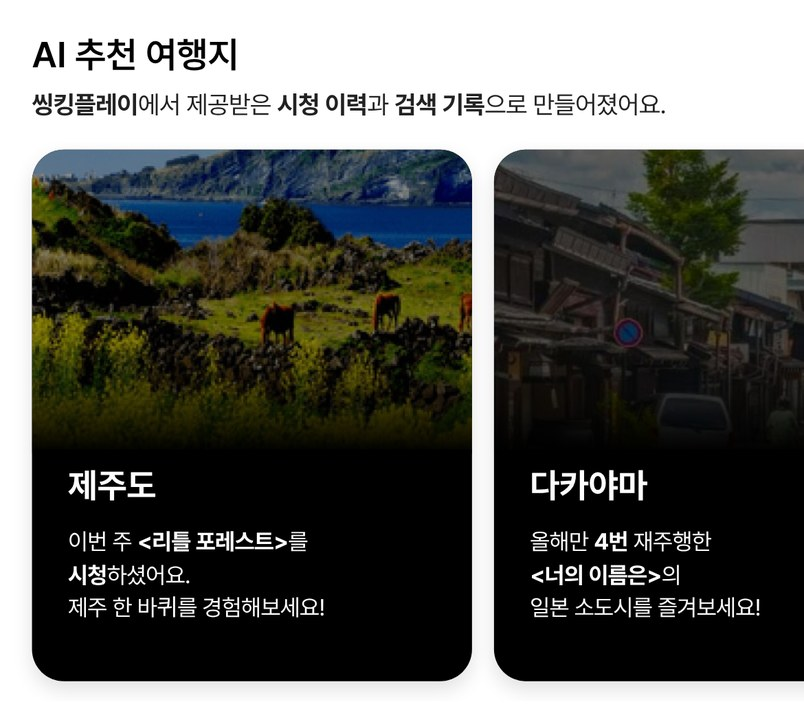
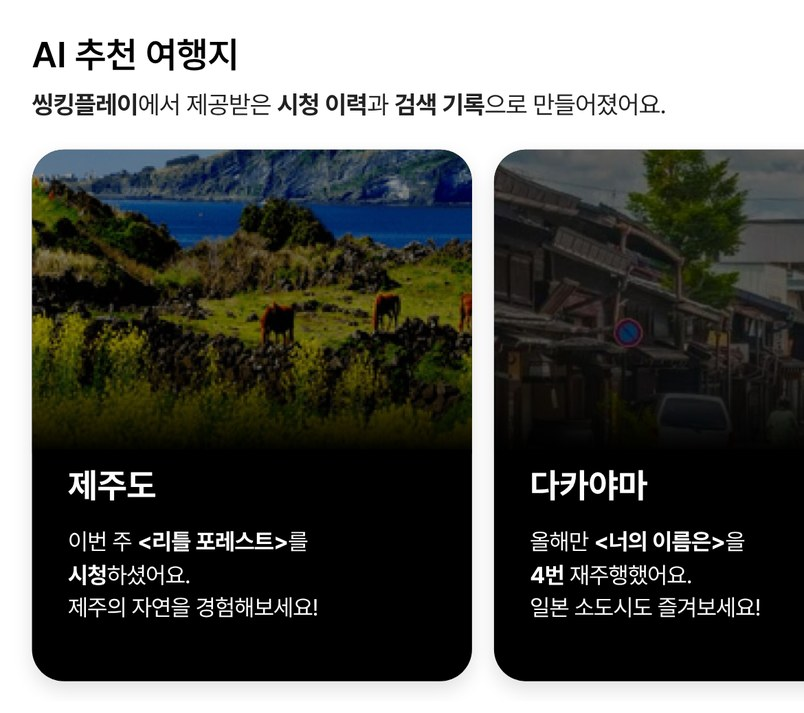
MiniEx: 상품 탭 적금 추천 제외, OTT 트래블 문구, 문항 브랜드 표기 순서, 연구 참여 안내 줄바꿈
Claude-Session: https://claude.ai/code/session_012gUV7ezSBGMu5uWGs5Kzpf

Changed region(s): [[0.653, 0.7405, 0.9328, 0.864], [0.1244, 0.8331, 0.4042, 0.864]]

diff --git a/MiniEx.html b/MiniEx.html
@@ -425,6 +425,10 @@ body.narrow:not(.participant) .rv-open{display:flex;position:fixed;right:12px;bo
 .tgray{border-radius:16px;background:linear-gradient(180deg,#c4c4c6,#d2d2d4);color:#fff;padding:22px 24px;display:flex!important;flex-direction:column;gap:4px;text-align:left;font-size:15px;font-weight:600;line-height:1.45}
 .tgray small{font-size:12.5px;font-weight:500;opacity:.75}
 .tgray.lt{background:#e4e4e6;color:#b0b0b3;justify-content:flex-end;font-size:14px}
+
+/* 연구 참여 안내: 시안처럼 항목 제목 위, 본문 아래 · 단어 단위 줄바꿈 */
+.cs-list>div{grid-template-columns:minmax(0,1fr)!important;gap:6px!important;padding:14px 16px!important}
+.cs-list dd{word-break:keep-all;overflow-wrap:anywhere}
 </style>
 
 <div class="shell">
@@ -521,11 +525,11 @@ const STUDY = {
     title: '연구 참여 안내',
     lead: '안녕하세요. 연구에 참여해주셔서 감사합니다.',
     items: [
-      ['연구 소개', '이 연구는 홍익대학교 대학원 시각디자인학과 ‘디자인씽킹과코크리에이션’ 수업의 일환으로 진행됩니다. AI 추천 기능이 있는 앱을 이용할 때 사람들이 화면을 어떻게 받아들이는지 알아보고자 합니다.'],
-      ['진행 방법', '가상의 앱 화면을 세 단계에 걸쳐 살펴보고, 각 단계 사이마다 직전에 확인한 화면에 대한 질문에 답합니다. **소요시간은 약 10분**입니다. 정해진 답은 따로 없으며, 실제로 서비스를 이용하는 상황이라고 생각하고 느낀 대로 답해 주세요. 모바일과 PC 모두 참여할 수 있으며, 진행 중에는 페이지 자체(카카오톡, Chrome, Safari 등)의 **새로고침이나 뒤로 가기를 누르지 말아 주세요.**'],
-      ['수집 정보와 보관', '설문 응답, 화면 이용 기록(누른 버튼, 화면 별 머문 시간, 다른 앱이나 창으로 이동한 시간), 기기 정보(기기 종류, 화면 크기, 브라우저)를 수집합니다. 수집한 정보는 익명화하여 분석, 발표, 보고서 작성에만 사용합니다. 수집된 정보는 연구팀만 열람하며, 연구가 끝나면 파기합니다.'],
+      ['연구 소개', '이 연구는 홍익대학교 대학원 시각디자인학과\n‘디자인씽킹과코크리에이션’ 수업의 일환으로 진행됩니다.\nAI 추천 기능이 있는 앱을 이용할 때 사람들이 화면을 어떻게 받아들이는지 알아보고자 합니다.'],
+      ['진행 방법', '가상의 앱 화면을 세 단계에 걸쳐 살펴보고, 각 단계 사이마다 직전에 확인한 화면에 대한 질문에 답합니다.\n**소요시간은 약 10분**입니다. 정해진 답은 따로 없으며, 실제로 서비스를 이용하는 상황이라고 생각하고 느낀 대로 답해 주세요.\n모바일과 PC 모두 참여할 수 있으며, 진행 중에는 페이지 자체(카카오톡, Chrome, Safari 등)의 **새로고침이나 뒤로 가기를 누르지 말아 주세요.**'],
+      ['수집 정보와 보관', '설문 응답, 화면 이용 기록(누른 버튼, 화면 별 머문 시간, 다른 앱이나 창으로 이동한 시간), 기기 정보(기기 종류, 화면 크기, 브라우저)를 수집합니다.\n수집한 정보는 익명화하여 분석, 발표, 보고서 작성에만 사용합니다. 수집된 정보는 연구팀만 열람하며, 연구가 끝나면 파기합니다.'],
       ['참여와 중단', '참여는 선택이며, 참여하지 않거나 중간에 그만두어도 불이익은 없습니다. 원하지 않으면 언제든 창을 닫아 중단할 수 있습니다. 중단한 경우 어느 단계에서 중단했는지 확인하는 데에만 사용되며, 응답 분석에서는 제외됩니다.'],
-      ['보상', '-'],
+      ['보상', '본 실험 전 사전 실험 단계로 별도의 보상은 없습니다.'],
       ['문의', '조유진 · yujincho@g.hongik.ac.kr']
     ],
     agrees: ['위 내용을 읽고 이해했으며, 연구 참여와 응답·이용 기록의 활용에 동의합니다.'],
@@ -545,7 +549,7 @@ const STUDY = {
   },
 
   // 설문 — 단계마다 한 페이지. 문항 형식: likert(7점) · choice(보기 고르기) · yesno(예/아니오) · text(주관식) · fig(이미지)
-  // {B} 금융(씽킹뱅크)/OTT(씽킹플레이) · {app} 씽킹뱅크/씽킹플레이 · {data} 결제 내역·소비 패턴/시청 이력·검색 기록
+  // {B} 씽킹뱅크(금융)/씽킹플레이(OTT) · {app} 씽킹뱅크/씽킹플레이 · {data} 결제 내역·소비 패턴/시청 이력·검색 기록
   // {rec} 카드/콘텐츠 · {tab} 상품/추천 · 이미지 경로의 {cond}=fin-a… {dom}=fin/ott
   surveys: {
     T0: { title: '다음 문항에 답해주세요.', items: [
@@ -583,10 +587,10 @@ const STUDY = {
       { id: 'T2_q3_1', no: '3-1', type: 'likert', text: '씽킹트래블의 정보 활용 범위는 내가 {B}를 이용하며 이해한 범위를 벗어났다.' },
       { id: 'T2_q3_2', no: '3-2', type: 'likert', text: '{B}가 내 정보를 사용한 목적은 내가 예상한 목적과 달랐다.' },
       { id: 'T2_q3_3', no: '3-3', type: 'likert', text: '{B}가 내 정보를 활용한 방식은 전반적으로 내가 예상했던 것과 달랐다.' },
-      { id: 'T2_q4_1', no: '4-1', type: 'likert', text: '{B}와 여행(씽킹트래블)의 개인정보 활용 방식에 대해 나는 내 권리를 침해당했다고 느꼈다.' },
-      { id: 'T2_q4_2', no: '4-2', type: 'likert', text: '{B}와 여행(씽킹트래블)의 개인정보 활용 방식에 대해 나는 배신당했다고 느꼈다.' },
-      { id: 'T2_q4_3', no: '4-3', type: 'likert', text: '{B}와 여행(씽킹트래블)의 개인정보 활용 방식에 대해 나는 존중받지 못했다고 느꼈다.' },
-      { id: 'T2_q4_4', no: '4-4', type: 'likert', text: '{B}와 여행(씽킹트래블)의 개인정보 활용 방식에 대해 나는 부당하게 이용당했다고 느낀다.' },
+      { id: 'T2_q4_1', no: '4-1', type: 'likert', text: '{B}와 씽킹트래블(여행)의 개인정보 활용 방식에 대해 나는 내 권리를 침해당했다고 느꼈다.' },
+      { id: 'T2_q4_2', no: '4-2', type: 'likert', text: '{B}와 씽킹트래블(여행)의 개인정보 활용 방식에 대해 나는 배신당했다고 느꼈다.' },
+      { id: 'T2_q4_3', no: '4-3', type: 'likert', text: '{B}와 씽킹트래블(여행)의 개인정보 활용 방식에 대해 나는 존중받지 못했다고 느꼈다.' },
+      { id: 'T2_q4_4', no: '4-4', type: 'likert', text: '{B}와 씽킹트래블(여행)의 개인정보 활용 방식에 대해 나는 부당하게 이용당했다고 느낀다.' },
       { id: 'T2_q5', no: '5', type: 'yesno', text: '나는 앞으로도 이 브랜드({app}, 씽킹트래블)의 서비스를 계속 이용할 의향이 있다.' },
       { id: 'T2_q6_1', no: '6-1', type: 'likert', text: '이번 문제 이후에도 이 브랜드({app}, 씽킹트래블)를 다시 믿고 의지할 의향이 있다.' },
       { id: 'T2_q6_2', no: '6-2', type: 'likert', text: '이번 문제가 발생했더라도 이 브랜드({app}, 씽킹트래블)에 대한 신뢰는 회복될 수 있다.' },
@@ -696,8 +700,7 @@ const FCARDS = [
 
 // '최근 교통비 지출이 늘었나요?' 영역 — 팀 검토용 초안
 const TRANSIT = [
-  { name: '씽킹 카페 체크카드', desc: '커피전문점·베이커리 결제 시 최대 10% 캐시백', rate: '전월 실적 30만 원 이상 시' },
-  { name: 'AA 청년미래적금', desc: '청년 자산 형성을 위한 정부기여금과 비과세 혜택!', rate: '36개월 기준, 연 5.00% ~ 8.00%' }
+  { name: '씽킹 카페 체크카드', desc: '커피전문점·베이커리 결제 시 최대 10% 캐시백', rate: '전월 실적 30만 원 이상 시' }
 ];
 
 // OTT 홈 '시청 중인 콘텐츠' (가로 썸네일)
@@ -727,8 +730,8 @@ const TRAVEL = {
              ['멜버른', 'img/tr_melbourne.jpg', '올해는 <b>스페셜티 카페</b>를\n<b>6개월 이용</b>했어요.\n로스터리와 브런치를 즐겨보세요!'],
              ['도쿄', 'img/tr_tokyo.jpg', '최근 <b>카페와 디저트</b> 결제가\n많았어요.\n로스터리와 디저트를 찾아보세요!']] },
   ott: { sub: '<b>씽킹플레이</b>에서 제공받은 <b>시청 이력</b>과 <b>검색 기록</b>으로 만들어졌어요.',
-    cities: [['제주도', 'img/tp_jeju.jpg', '이번 주 <b>&lt;리틀 포레스트&gt;</b>를\n<b>시청</b>하셨어요.\n제주 한 바퀴를 경험해보세요!'],
-             ['다카야마', 'img/tp_takayama.jpg', '올해만 <b>4번</b> 재주행한\n<b>&lt;너의 이름은&gt;</b>의\n일본 소도시를 즐겨보세요!'],
+    cities: [['제주도', 'img/tp_jeju.jpg', '이번 주 <b>&lt;리틀 포레스트&gt;</b>를\n<b>시청</b>하셨어요.\n제주의 자연을 경험해보세요!'],
+             ['다카야마', 'img/tp_takayama.jpg', '올해만 <b>&lt;너의 이름은&gt;</b>을\n<b>4번</b> 재주행했어요.\n일본 소도시도 즐겨보세요!'],
              ['가고시마', 'img/tp_kagoshima.jpg', '최근 <b>시골 힐링 드라마</b>를\n자주 찾아보셨어요.\n남쪽 소도시에서 쉬어 가보세요!']] }
 };
 
@@ -902,7 +905,7 @@ function finHome() {
 /* ================= 금융 상품 탭 ================= */
 function finProduct() {
   const tabs = ['입출금', '저축', '카드', '대출', '외환', '투자'];
-  return `<div class="ct" style="height:1090px">
+  return `<div class="ct" style="height:969px">
   <div class="hs" data-drag style="top:72px;height:38px"><div class="row" style="gap:23px;padding:5px 16px 0;align-items:flex-start">
     <span class="h2" style="position:relative">AI 추천<i style="position:absolute;left:0;right:0;top:30px;height:2px;background:#000"></i></span>
     ${tabs.map(t => T(t + ' 상품', 'fp_tab_' + t, 'h2', 'color:#a0a0a0;height:22px', t)).join('')}
@@ -1458,13 +1461,13 @@ const ANS = {};
 const esc = t => String(t).replace(/[&<>"]/g, c => ({ '&': '&amp;', '<': '&lt;', '>': '&gt;', '"': '&quot;' }[c]));
 const rich = t => esc(t).replace(/\*\*(.+?)\*\*/g, '<b>$1</b>');
 const tok = t => String(t)
-  .replace(/\{B\}/g, S.dom === 'fin' ? '금융(씽킹뱅크)' : 'OTT(씽킹플레이)')
+  .replace(/\{B\}/g, S.dom === 'fin' ? '씽킹뱅크(금융)' : '씽킹플레이(OTT)')
   .replace(/\{app\}/g, S.dom === 'fin' ? '씽킹뱅크' : '씽킹플레이')
   .replace(/\{data\}/g, S.dom === 'fin' ? '결제 내역·소비 패턴' : '시청 이력·검색 기록')
   .replace(/\{rec\}/g, S.dom === 'fin' ? '카드' : '콘텐츠')
   .replace(/\{tab\}/g, S.dom === 'fin' ? '상품' : '추천')
   .replace(/\{cond\}/g, S.cond).replace(/\{dom\}/g, S.dom);
-const labelTok = t => String(t).replace(/\{B\}/g, '[금융(씽킹뱅크)/OTT(씽킹플레이)]').replace(/\{app\}/g, '[씽킹뱅크/씽킹플레이]')
+const labelTok = t => String(t).replace(/\{B\}/g, '[씽킹뱅크(금융)/씽킹플레이(OTT)]').replace(/\{app\}/g, '[씽킹뱅크/씽킹플레이]')
   .replace(/\{data\}/g, '[결제 내역·소비 패턴/시청 이력·검색 기록]').replace(/\{rec\}/g, '[카드/콘텐츠]').replace(/\{tab\}/g, '[상품/추천]');
 function showSurvey(on, white) {
   resetView();
@@ -1616,7 +1619,7 @@ if (!REVIEW) {
 function showConsent() {
   const C = STUDY.consent, t0 = now();
   $('svIn').innerHTML = `<header class="sv-head"><h2>${esc(C.title)}</h2><p>${esc(C.lead)}</p></header>
-    <dl class="cs-list">${C.items.map(([a, b]) => `<div><dt>${esc(a)}</dt><dd>${rich(b)}</dd></div>`).join('')}</dl>
+    <dl class="cs-list">${C.items.map(([a, b]) => `<div><dt>${esc(a)}</dt><dd>${rich(b).replace(/\n/g, '<br>')}</dd></div>`).join('')}</dl>
     <div class="cs-agrees">${C.agrees.map((a, k) => `<label class="cs-agree" for="csAgree${k}"><input type="checkbox" class="cs-chk" id="csAgree${k}"> <span>${esc(a)}</span></label>`).join('')}</div>
     <p class="sv-err" id="svErr" hidden>동의에 체크해야 참여를 시작할 수 있어요.</p>
     <div class="sv-foot"><button class="g-btn" id="csGo">${esc(C.btn)}</button></div>`;
